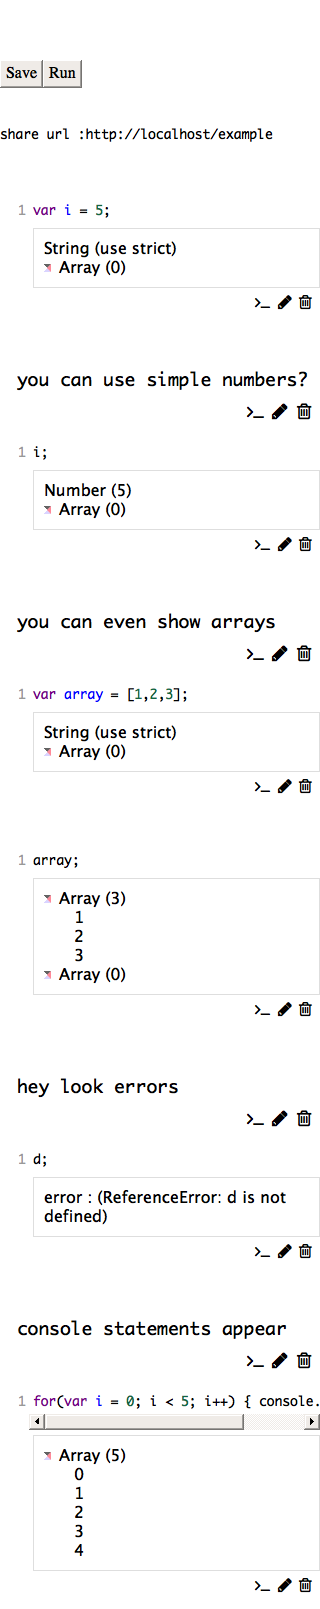
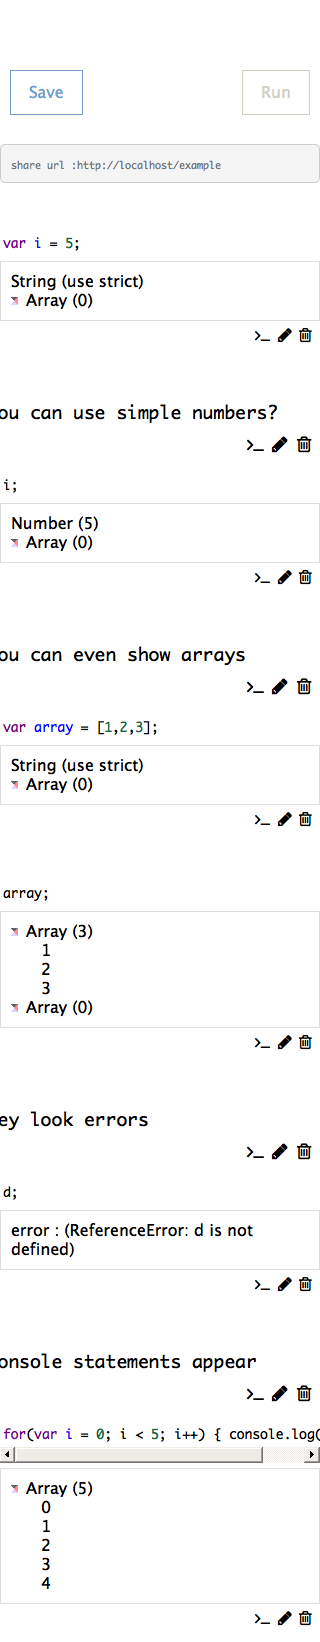
adds psychic-ui updates example page styling updates screenshots

diff --git a/index.js b/index.js
@@ -18,7 +18,7 @@ app.use(compression());
 app.use('/assets', express.static(__dirname + '/views/assets'));
 app.use('/assets/marked', express.static(__dirname + '/node_modules/marked'));
 app.use('/assets/codemirror', express.static(__dirname + '/node_modules/codemirror'));
-app.use('/assets/normalize', express.static(__dirname + '/node_modules/normalize.css'));
+app.use('/assets/psychic-ui', express.static(__dirname + '/node_modules/psychic-ui'));
 app.use('/assets/font-awesome', express.static(__dirname + '/node_modules/font-awesome'));
 app.use(bodyParser.urlencoded({
     extended: false,

diff --git a/views/assets/app.css b/views/assets/app.css
@@ -1,5 +1,6 @@
 .CodeMirror {
     height: auto;
+    margin-left:-30px;
 }
 .CodeMirror-gutters {
     background-color: transparent;
@@ -7,7 +8,6 @@
 }
 
 .code-response {
-    margin-left: 33px;
     border: 1px solid #dedede;
     padding: 10px;
     margin-top: 5px;
